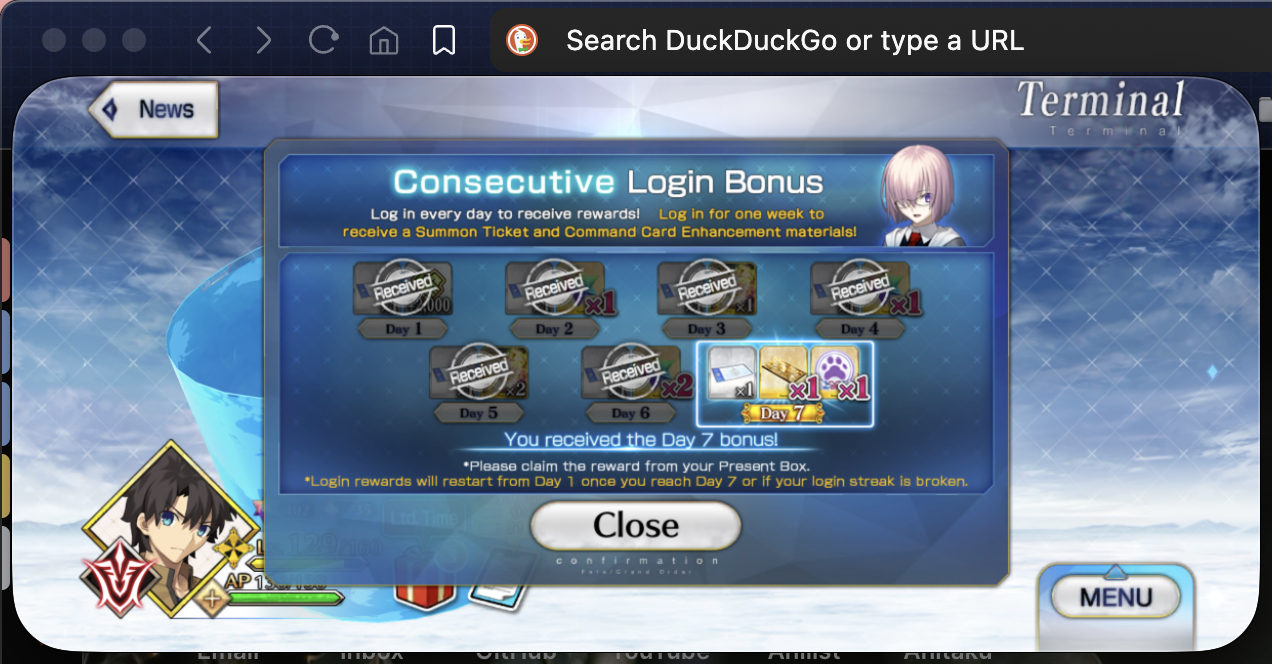
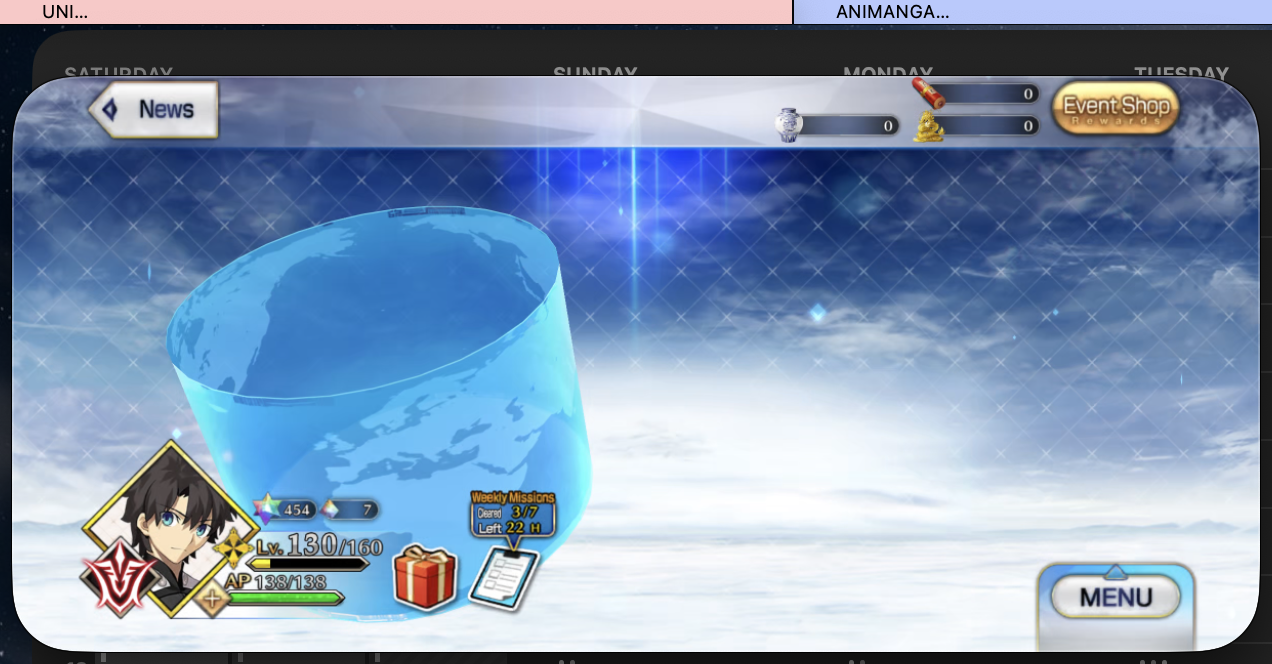
finished handling popups on fgo home screen - needs to be tested

diff --git a/app.py b/app.py
@@ -347,7 +347,6 @@ def action_text(
         general_fields["height"],
     )
 
-    # in case friend popup comes up
     capture_screenshot(
         region={"top": top, "left": left, "width": width, "height": height},
         output_path=img_path,
@@ -551,89 +550,132 @@ def get_to_fgo_home_screen(general_fields):
     log("clicked second loading screen", "info")
 
 
+def friend_popup_handler(general_fields):
+    action_text(
+        general_fields,
+        "img/screenshots/potential_friend_popup.png",
+        "Close",
+        [0.3, 0.85],
+        ["Friend Points", "Most used Servant"],
+    )
+
+
+def news_popup_handler(general_fields):
+    region, left, top, width, height = (
+        general_fields["region"],
+        general_fields["left"],
+        general_fields["top"],
+        general_fields["width"],
+        general_fields["height"],
+    )
+
+    capture_screenshot(
+        region={"top": top, "left": left, "width": width, "height": height},
+        output_path="img/screenshots/potential_news.png",
+    )
+    search_words = ["Maintenance", "Issues", "Facebook", "X (Twitter)"]
+    search_words_results = [
+        check_text_in_image("img/screenshots/potential_news.png", search_word)
+        for search_word in search_words
+    ]
+    if True in search_words_results:
+        pag.moveTo((region[0] + region[2]) * 0.885, (region[1] + region[3]) * 0.24)
+        pag.click()
+
+
+def other_popups_handler(general_fields):
+    region, left, top, width, height = (
+        general_fields["region"],
+        general_fields["left"],
+        general_fields["top"],
+        general_fields["width"],
+        general_fields["height"],
+    )
+
+    capture_screenshot(
+        region={"top": top, "left": left, "width": width, "height": height},
+        output_path="img/screenshots/potential_close_btns.png",
+    )
+
+    try:
+        loc_close = pag.locateCenterOnScreen(
+            "img/screenshots/close_btn.png", confidence=0.8
+        )
+        loc_close_exists = True
+    except pag.ImageNotFoundException:
+        loc_close_exists = False
+
+    while loc_close_exists or check_text_in_image(
+        "img/screenshots/potential_close_btns.png", "Close"
+    ):
+        if loc_close_exists:
+            pag.moveTo(loc_close.x, loc_close.y)
+            pag.click()
+        else:
+            bbox = find_text_location(
+                "img/screenshots/potential_close_btns.png", "Close"
+            )
+            if bbox:
+                x, y, width, height = bbox
+                log(
+                    f"Bounding box for 'Close': x={x}, y={y}, width={width}, height={height}"
+                )
+                pag.moveTo(region[0] + x, region[1] + y)
+            else:
+                pag.moveTo(
+                    (region[0] + region[2]) * 0.5, (region[1] + region[3]) * 0.835
+                )
+            pag.click()
+
+        try:
+            loc_close = pag.locateCenterOnScreen(
+                "img/screenshots/close_btn.png", confidence=0.8
+            )
+            loc_close_exists = True
+        except pag.ImageNotFoundException:
+            loc_close_exists = False
+
+
+def handle_all_popups(general_fields):
+    fgo_home_screen_found = False
+    while not fgo_home_screen_found:
+        try:
+            loc_fgo_home_screen = pag.locateCenterOnScreen(
+                "img/screenshots/news_btn.png", confidence=0.8
+            )  # NOTE: might need to change this to be chaldea gate instead of back news btn
+            fgo_home_screen_found = True
+            log("found fgo home screen", "success")
+
+        except pag.ImageNotFoundException:
+            # in case friend popup comes up
+            friend_popup_handler(general_fields)
+
+            # in case news shows up
+            news_popup_handler(general_fields)
+
+            # in case of any close buttons
+            other_popups_handler(general_fields)
+
+
 def main():
     general_fields = launch_fgo()
     get_to_fgo_home_screen(general_fields)
+    handle_all_popups(general_fields)
 
-    # # in case friend popup comes up
-    # action_text(
-    #     general_fields,
-    #     "img/screenshots/potential_friend_popup.png",
-    #     "Close",
-    #     [0.3, 0.85],
-    #     ["Friend Points", "Most used Servant"],
-    # )
+    region, left, top, width, height = (
+        general_fields["region"],
+        general_fields["left"],
+        general_fields["top"],
+        general_fields["width"],
+        general_fields["height"],
+    )
 
-    # # in case news shows up
-    # capture_screenshot(
-    #     region={"top": top, "left": left, "width": width, "height": height},
-    #     output_path="img/screenshots/potential_news.png",
-    # )
-    # search_words = ["News", "Maintenance", "Issues", "Facebook", "X (Twitter)"]
-    # search_words_results = [
-    #     check_text_in_image("img/screenshots/potential_news.png", search_word)
-    #     for search_word in search_words
-    # ]
-    # if True in search_words_results:
-    #     pag.moveTo((region[0] + region[2]) * 0.885, (region[1] + region[3]) * 0.24)
-    #     pag.click()
-    #     time.sleep(GENERAL_LONG_SLEEP)
-
-    # # in case of any close buttons
-    # capture_screenshot(
-    #     region={"top": top, "left": left, "width": width, "height": height},
-    #     output_path="img/screenshots/potential_close_btns.png",
-    # )
-    # loc_close_happened = False
-
-    # try:
-    #     loc_close = pag.locateCenterOnScreen(
-    #         "img/screenshots/close_btn.png", confidence=0.8
-    #     )
-    #     loc_close_exists = True
-    # except pag.ImageNotFoundException:
-    #     loc_close_exists = False
-
-    # while loc_close_exists or check_text_in_image(
-    #     "img/screenshots/potential_close_btns.png", "Close"
-    # ):
-    #     loc_close_happened = True
-    #     if loc_close_exists:
-    #         pag.moveTo(loc_close.x, loc_close.y)
-    #         pag.click()
-    #     else:
-    #         bbox = find_text_location(
-    #             "img/screenshots/potential_close_btns.png", "Close"
-    #         )
-    #         if bbox:
-    #             x, y, width, height = bbox
-    #             log(
-    #                 f"Bounding box for 'Close': x={x}, y={y}, width={width}, height={height}"
-    #             )
-    #             pag.moveTo(region[0] + x, region[1] + y)
-    #         else:
-    #             pag.moveTo(
-    #                 (region[0] + region[2]) * 0.5, (region[1] + region[3]) * 0.835
-    #             )
-    #         pag.click()
-
-    #     try:
-    #         loc_close = pag.locateCenterOnScreen(
-    #             "img/screenshots/close_btn.png", confidence=0.8
-    #         )
-    #         loc_close_exists = True
-    #     except pag.ImageNotFoundException:
-    #         loc_close_exists = False
-
-    # if loc_close_happened:
-    #     time.sleep(GENERAL_LONG_SLEEP)
-
-    # # drag scroll bar to top of screen
-    # pag.moveTo((region[0] + region[2]) * 0.925, (region[1] + region[3]) * 0.35)
-    # pag.click()
-    # pag.dragTo(
-    #     (region[0] + region[2]) * 0.925, (region[1] + region[3]) * 0.3, button="left"
-    # )
+    # drag scroll bar to top of screen
+    pag.moveTo((region[0] + region[2]) * 0.925, (region[1] + region[3]) * 0.35)
+    pag.click()
+    pag.dragTo(
+        (region[0] + region[2]) * 0.925, (region[1] + region[3]) * 0.3, button="left"
+    )
 
     # # open Chaldea Gate menu
     # try:
